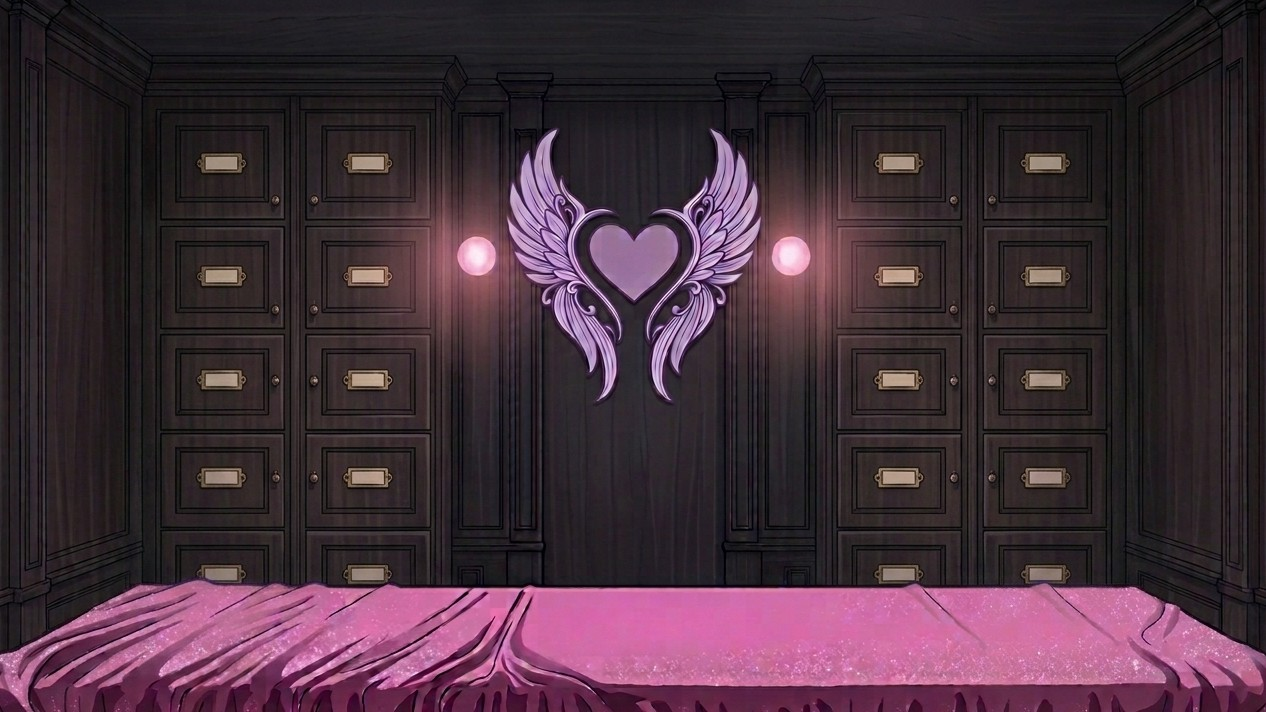
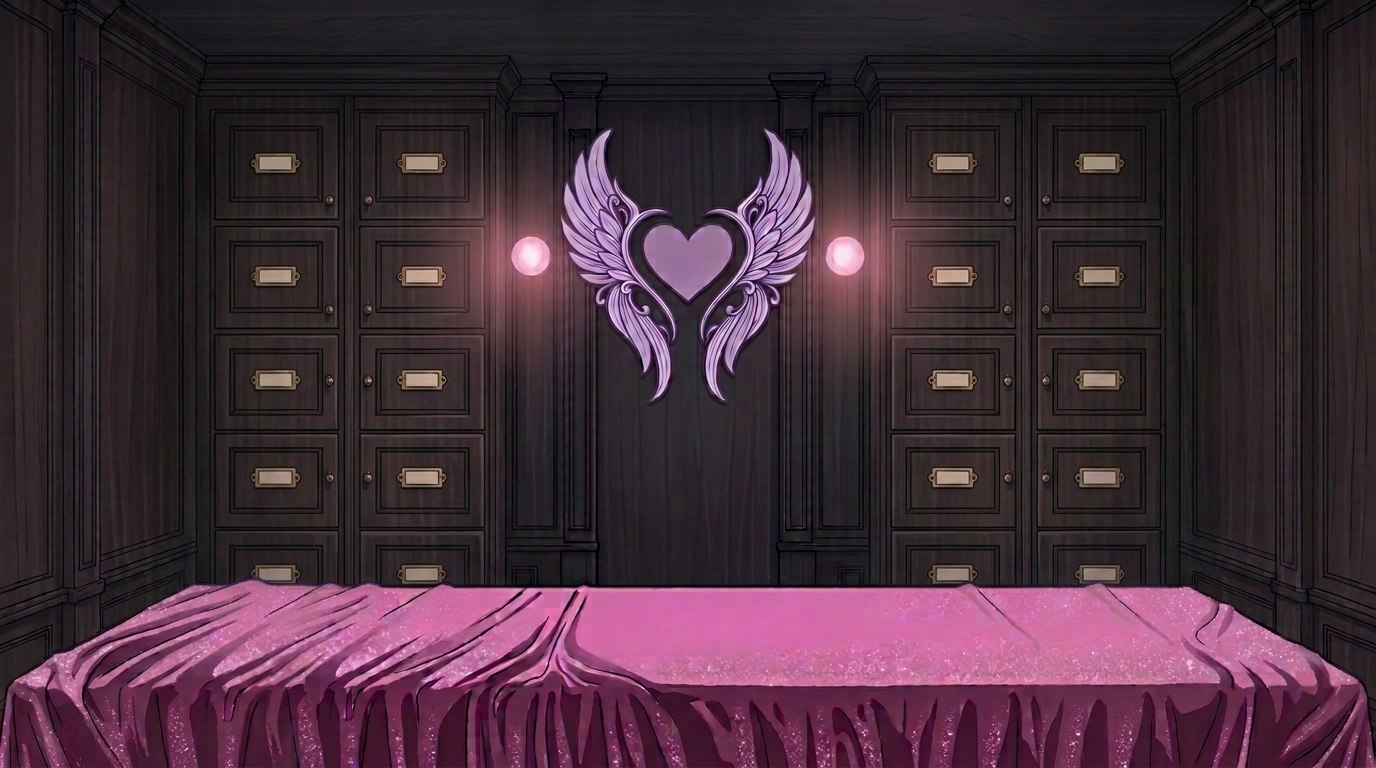
Workroom: full picture with the whole tabletop; the room stands on the bottom of the window so the bar is always in view

diff --git a/css/style.css b/css/style.css
@@ -439,13 +439,16 @@ button.small{font-size:12px;padding:2px 10px}
 .tome[data-drawn]::before,.tome[data-drawn]::after{z-index:0}
 .tome .pg,.tome .cover{z-index:1}
 
-/* ---------- the workroom: one picture (assets/scene/altar-room.jpg, 1266×712) that covers the window like the shop does.
+/* ---------- the workroom: one picture (assets/scene/altar-room.jpg, 1376×768), standing on the bottom of the window so the
+   table and the bar in front of it are always in view, whatever the screen. A window wider than the picture crops a little
+   of the ceiling (at most 6%), then shows dark wall either side; a narrower one crops the side walls.
    Everything sits on it in % of the picture: the cabinet doors on the painted doors, the altar on the table.
    Sizes inside use cqw/cqh (the room is a size container), so things keep their place at any window size.
    No blur effects here: they are redrawn every frame and made the game stutter. */
-.room{position:absolute;left:50%;top:50%;translate:-50% -50%;width:max(100vw,calc(100vh * 1266 / 712));height:max(100vh,calc(100vw * 712 / 1266));
+.room{position:absolute;left:50%;bottom:0;translate:-50% 0;
+  height:max(100vh,min(calc(100vw * 768 / 1376),106vh));width:max(calc(100vh * 1376 / 768),min(100vw,calc(106vh * 1376 / 768)));
   background-size:100% 100%;background-color:#2a1d2a;container-type:size}
-@media (max-aspect-ratio:3/2){.room{width:100vw;height:calc(100vw * 712 / 1266)}}  /* narrow windows: the whole room, letterboxed */
+@media (max-aspect-ratio:3/2){.room{bottom:auto;top:50%;translate:-50% -50%;width:100vw;height:calc(100vw * 768 / 1376)}}  /* narrow windows: the whole room, letterboxed */
 .altarview{background:#1E1219}
 .altartop{position:absolute;top:0;left:0;right:0;z-index:3;display:flex;justify-content:center;padding:76px 16px 0;pointer-events:none}
 .altartop>*{pointer-events:auto}
@@ -507,8 +510,9 @@ button.small{font-size:12px;padding:2px 10px}
 .shelfopen .swatch{width:34px;height:34px}
 .fillnow{flex:0 0 100%;display:flex;flex-wrap:wrap;gap:6px;padding-bottom:6px}
 
-/* the table is the altar: the candle at the left end, the card at the right, what is laid out in between */
-.tabletop{position:absolute;left:14%;right:14%;top:70%;height:18.5%;display:flex;align-items:flex-end;justify-content:space-between;gap:2%}
+/* the table is the altar: things stand on its top (the picture's tabletop runs from 76% to 89% down); the candle at the
+   left end, the card at the right, what is laid out in between. The bar sits on the cloth hanging in front. */
+.tabletop{position:absolute;left:13%;right:13%;top:64%;height:22.5%;display:flex;align-items:flex-end;justify-content:space-between;gap:2%}
 .tabletop .slot{flex:0 0 12%;display:flex;justify-content:center;align-items:flex-end;height:100%}
 .plates{flex:1;min-width:0;height:100%;display:flex;align-items:flex-end;justify-content:center;gap:1.2%}
 .ontable{display:flex;flex-direction:column;align-items:center;justify-content:flex-end;height:100%;min-width:0;padding:0;border:0;border-radius:8px;background:none;box-shadow:none;cursor:pointer}
@@ -522,7 +526,7 @@ button.small{font-size:12px;padding:2px 10px}
   background:radial-gradient(circle at 50% 70%,#FFF8D6,#FFC24A 55%,rgba(255,140,40,0) 72%);transform-origin:50% 100%}
 @media (prefers-reduced-motion:no-preference){.candle::before{animation:flicker 1.6s ease-in-out infinite alternate}}
 @keyframes flicker{from{transform:scale(1,1)}to{transform:scale(.88,1.08)}}
-.tablebar{position:absolute;left:50%;top:91.5%;translate:-50% 0;z-index:2;display:flex;align-items:center;gap:8px;padding:6px 10px;border-radius:999px;white-space:nowrap;
+.tablebar{position:absolute;left:50%;top:91%;translate:-50% 0;z-index:2;display:flex;align-items:center;gap:8px;padding:6px 10px;border-radius:999px;white-space:nowrap;
   background:rgba(40,12,32,.78);border:1px solid rgba(255,214,240,.45);box-shadow:0 6px 18px rgba(0,0,0,.35)}
 .tablebar .making{display:flex;align-items:center;gap:6px;color:#FFE6F2;font-family:var(--font-deco);font-size:14px}
 .tablebar button,.tablebar select{font-size:14px}

diff --git a/js/scene.js b/js/scene.js
@@ -89,10 +89,10 @@ const GATHER=[['Moonwater',()=>today().phase==='Full Moon'&&HOURS[S.h]==='Nightf
  ['Web Dew',()=>HOURS[S.h]==='Sunrise'&&today().weather==='Fog / Mist','Sunrise, mist']];
 /* The workroom cabinets. Behind every painted door is one kind of thing, named on the door's label. Clicking a door
    swings it open and what is inside comes out beside it (#shelfOpen); tapping a thing lays it on the table or takes it
-   off again. Door places are in pixels of the room picture (assets/scene/altar-room.jpg, 1266×712). The bottom row
+   off again. Door places are in pixels of the room picture (assets/scene/altar-room.jpg, 1376×768). The bottom row
    of doors is hidden behind the table, so it stays shut. */
-const ROOM_W=1266,ROOM_H=712;
-const DOOR_COLS=[[160,125,'l',221.5],[305,126,'r',368],[835,126,'l',898.5],[981,125,'r',1045.5]];  /* left, width, hinge side, label centre */
+const ROOM_W=1376,ROOM_H=768;
+const DOOR_COLS=[[214,125,'l',275.5],[359,126,'r',422],[889,126,'l',952.5],[1035,125,'r',1099.5]];  /* left, width, hinge side, label centre */
 const DOOR_ROWS=[[110,109,163],[226,102,276],[334,96,380],[433,94,478]];                          /* top, height, label centre */
 /* row by row, door by door: the left cabinet holds the kitchen things, the right one the rest */
 const SHELVES=[['Herbs & flowers','Spices','Candles','Tarot'],

diff --git a/DESIGN_NOTES.md b/DESIGN_NOTES.md
@@ -70,7 +70,7 @@ A cozy witch-shop deduction game. Customers describe a need (never the recipe na
 
 The game has two full-screen views:
 - **The counter** (main): the shop picture fills the window. Day info top left, what the customer says in a box over the right-hand window, the mood line as a subtitle, and a **down arrow** at the bottom: the counter and the altar are like two floors, and the arrow slides the view down to the altar (an up arrow slides back).
-- **The workroom** (down arrow): one picture (assets/scene/altar-room.jpg, two cabinets of doors and a pink-clothed table), no Kitchen/Altar/Cabinet split. Behind each of the 16 painted cupboard doors is one kind of ingredient, its name written in ink on the painted brass label (left cabinet: Herbs, Spices, Fruits, Pantry, Waters, Oils, Resins, Inks; right: Candles, Tarot, Crystals, Critters (animal gifts), Buttons, Threads, Wood, Findings). The bottom row of doors is hidden by the table and stays shut. Hovering a door eases it open a crack with pink light behind; clicking swings it open and its contents come out between the cabinets. A pink count on the label shows how many of its things are on the table. Empty bottles that can be filled right now are at the top of the Waters cupboard. The table is the altar: the candle stands at its left end, the card at its right, what is laid out in between; recipe choice and the buttons sit along its front edge. A test result shows between the cabinets; the shop log is in the bottom-left corner.
+- **The workroom** (down arrow): one picture (assets/scene/altar-room.jpg, the full 1376×768 version, two cabinets of doors and a pink-clothed table). It stands on the bottom of the window, so the table and the bar on its cloth are always visible on any screen; a wide window crops a little ceiling, then shows dark wall at the sides, no Kitchen/Altar/Cabinet split. Behind each of the 16 painted cupboard doors is one kind of ingredient, its name written in ink on the painted brass label (left cabinet: Herbs, Spices, Fruits, Pantry, Waters, Oils, Resins, Inks; right: Candles, Tarot, Crystals, Critters (animal gifts), Buttons, Threads, Wood, Findings). The bottom row of doors is hidden by the table and stays shut. Hovering a door eases it open a crack with pink light behind; clicking swings it open and its contents come out between the cabinets. A pink count on the label shows how many of its things are on the table. Empty bottles that can be filled right now are at the top of the Waters cupboard. The table is the altar: the candle stands at its left end, the card at its right, what is laid out in between; recipe choice and the buttons sit along its front edge. A test result shows between the cabinets; the shop log is in the bottom-left corner.
 
 On the counter, every object glows on hover and does something:
 - each book in the stack opens that book
